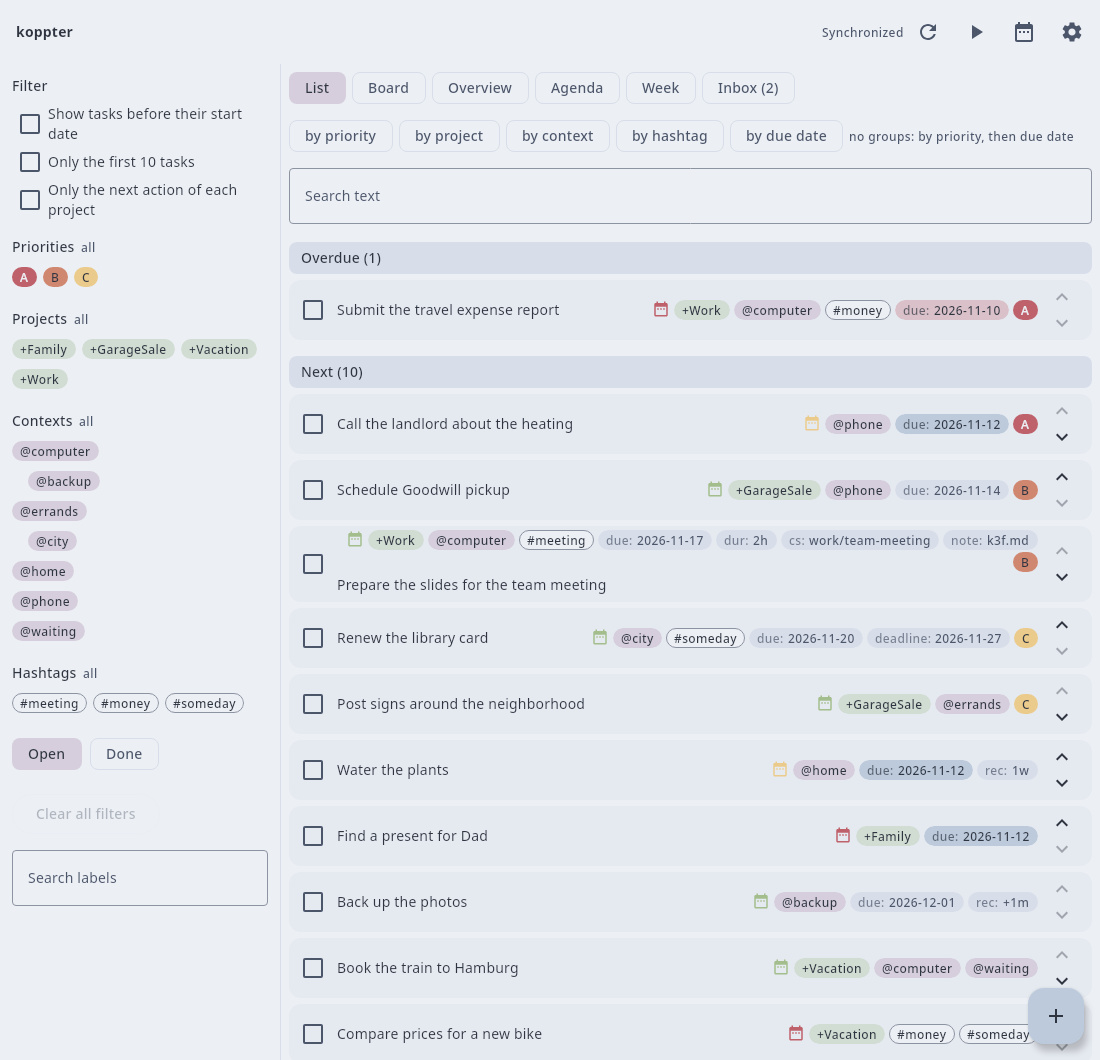
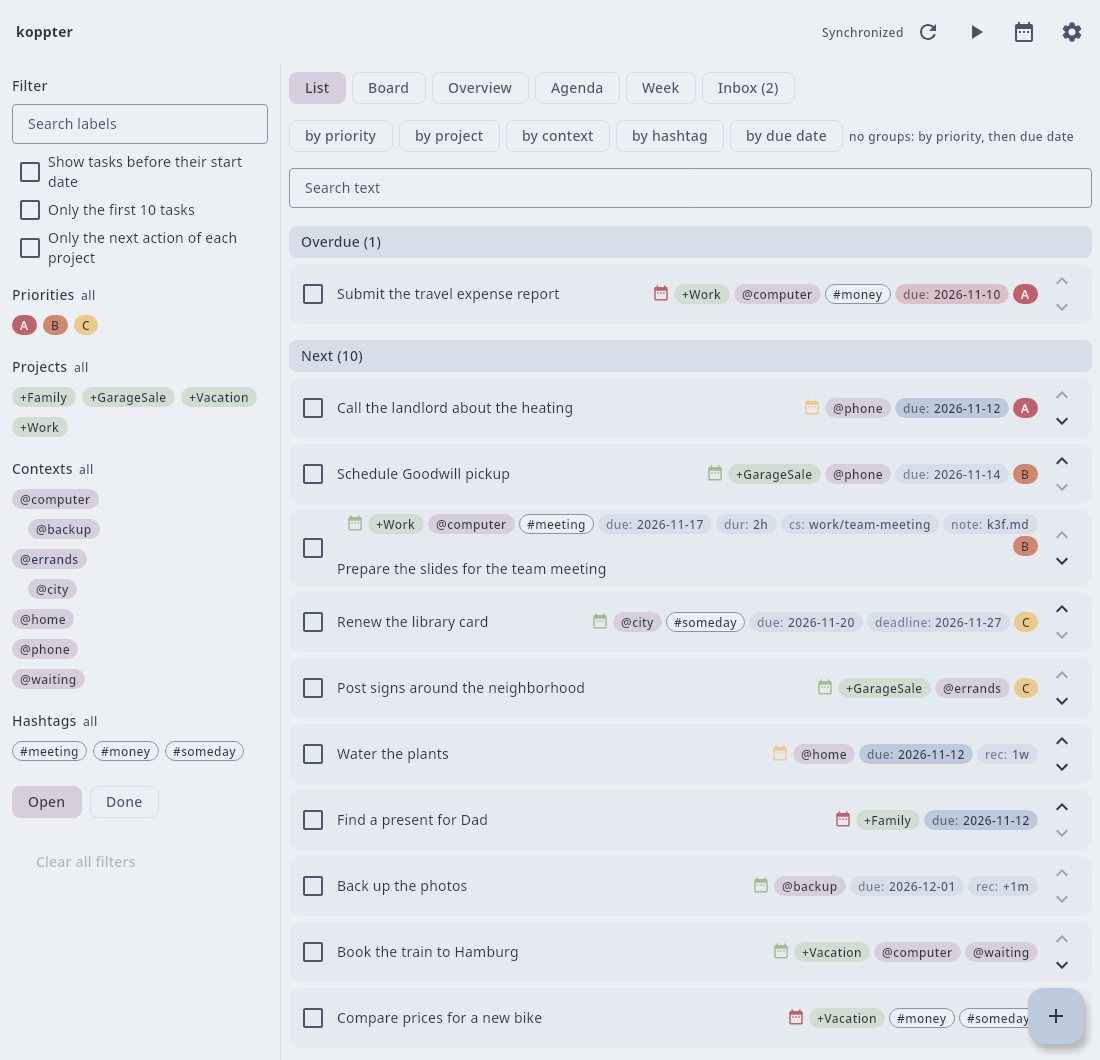
Lower search fields; label search at the top of the filter panel
The search fields had the 56 dp of a Material text field around one line, and the label search at the end of the panel lay out of view in a window of common height.

diff --git a/app/src/commonMain/kotlin/io/github/koppor/koppter/ui/FilterPanel.kt b/app/src/commonMain/kotlin/io/github/koppor/koppter/ui/FilterPanel.kt
@@ -1,6 +1,13 @@
 package io.github.koppor.koppter.ui
 
 import androidx.compose.foundation.clickable
+import androidx.compose.foundation.interaction.MutableInteractionSource
+import androidx.compose.foundation.layout.size
+import androidx.compose.foundation.text.BasicTextField
+import androidx.compose.material3.ExperimentalMaterial3Api
+import androidx.compose.material3.OutlinedTextFieldDefaults
+import androidx.compose.ui.graphics.SolidColor
+import androidx.compose.ui.text.input.VisualTransformation
 import androidx.compose.foundation.layout.Arrangement
 import androidx.compose.foundation.layout.Column
 import androidx.compose.foundation.layout.ExperimentalLayoutApi
@@ -21,7 +28,6 @@ import androidx.compose.material3.Checkbox
 import androidx.compose.material3.FilterChip
 import androidx.compose.material3.MaterialTheme
 import androidx.compose.material3.OutlinedButton
-import androidx.compose.material3.OutlinedTextField
 import androidx.compose.material3.RadioButton
 import androidx.compose.material3.Text
 import androidx.compose.runtime.getValue
@@ -81,7 +87,9 @@ fun FilterPanel(
         }
         search?.invoke()
         // [impl->dsn~filter-label-search~1]
+        // At the top: at the end of the panel, below the values, it lay out of view in a window of common height.
         var labels by remember { mutableStateOf("") }
+        SearchField(labels, { labels = it }, "Search labels", "filter-labels", Modifier.padding(bottom = 8.dp))
 
         Option("Show tasks before their start date", !filter.hideFuture, "filter-future") {
             onChange(filter.copy(hideFuture = !it))
@@ -159,27 +167,47 @@ fun FilterPanel(
         ) {
             Text("Clear all filters")
         }
-        SearchField(labels, { labels = it }, "Search labels", "filter-labels", Modifier.padding(top = 12.dp))
     }
 }
 
 /** A field of one line that has a button at its end, tagged [tag]`-clear`, which empties it. */
+@OptIn(ExperimentalMaterial3Api::class)
 @Composable
 internal fun SearchField(value: String, onChange: (String) -> Unit, placeholder: String, tag: String, modifier: Modifier = Modifier) {
-    OutlinedTextField(
+    // Built from its parts, as `OutlinedTextField` has a height of at least 56 dp, much space around one line of text.
+    val interaction = remember { MutableInteractionSource() }
+    val colors = OutlinedTextFieldDefaults.colors()
+    BasicTextField(
         value = value,
         onValueChange = onChange,
-        placeholder = { Text(placeholder) },
         singleLine = true,
-        trailingIcon = {
-            if (value.isNotEmpty()) {
-                IconButton(onClick = { onChange("") }, modifier = Modifier.testTag("$tag-clear")) {
-                    Icon(Icons.Default.Close, contentDescription = "Clear the text")
-                }
-            }
-        },
+        textStyle = MaterialTheme.typography.bodyMedium.copy(color = MaterialTheme.colorScheme.onSurface),
+        cursorBrush = SolidColor(MaterialTheme.colorScheme.primary),
+        interactionSource = interaction,
         modifier = modifier.fillMaxWidth().testTag(tag),
-    )
+    ) { field ->
+        OutlinedTextFieldDefaults.DecorationBox(
+            value = value,
+            innerTextField = field,
+            enabled = true,
+            singleLine = true,
+            visualTransformation = VisualTransformation.None,
+            interactionSource = interaction,
+            placeholder = { Text(placeholder) },
+            // Not the slot of the trailing icon, which is at least 48 dp high.
+            suffix = {
+                if (value.isNotEmpty()) {
+                    Icon(
+                        Icons.Default.Close, contentDescription = "Clear the text",
+                        modifier = Modifier.size(20.dp).clickable(role = Role.Button) { onChange("") }.testTag("$tag-clear"),
+                    )
+                }
+            },
+            colors = colors,
+            contentPadding = OutlinedTextFieldDefaults.contentPadding(top = 8.dp, bottom = 8.dp),
+            container = { OutlinedTextFieldDefaults.Container(enabled = true, isError = false, interactionSource = interaction, colors = colors) },
+        )
+    }
 }
 
 /**

diff --git a/docs/requirements/ui.md b/docs/requirements/ui.md
@@ -676,7 +676,7 @@ Needs: impl, utest
 ### Search for labels in the filter panel
 `dsn~filter-label-search~1`
 
-Below *Clear all filters*, `FilterPanel` has a field that narrows the projects, contexts and hashtags that the panel offers to those whose name contains the typed text, whatever the case of its letters.
+At its top, below the heading and the field for the text of the filter where the panel has one, `FilterPanel` has a field that narrows the projects, contexts and hashtags that the panel offers to those whose name contains the typed text, whatever the case of its letters.
 A project or a context above a found one stays, so that the tree keeps its shape; the selected and the excluded values stay as well.
 A text that starts with `+`, `@` or `#` finds projects, contexts or hashtags only.
 The field does not change the filter and is not kept.
@@ -740,6 +740,7 @@ A button of the top bar shows its description while the pointer rests on it.
 Errors of the storage are shown in a snackbar.
 The texts use two sizes of the type scale of Material (`compactTypography`): the medium body size for texts, fields, buttons and titles, and the small body size for labels and remarks; a title differs from a text by its weight.
 That suits a window on a desktop and keeps a field of one line at the same height whether it is empty or filled.
+The search fields (`SearchField`) have less space above and below their line than a text field of Material, which is at least 56 dp high.
 
 Covers:
 

diff --git a/CHANGELOG.md b/CHANGELOG.md
@@ -10,6 +10,7 @@ and this project adheres to [Calendar Versioning](https://calver.org/) with the 
 ### Changed
 
 - The empty fields *Name of the commits* and *Email address of the commits* in the settings show their default in gray, also while they do not have the focus; their titles stand above them.
+- The search fields are lower, and the field that searches labels in the filter panel stands at its top instead of below *Clear all filters*, where it was out of view.
 - `just run-loop` prints `Running koppter...` when it starts the application and `koppter finished` when the loop ends.
 - The Windows task manager names the desktop application *koppter* instead of *Tasks in a todo.txt file*.
 
